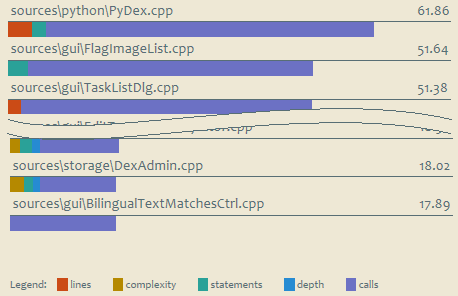
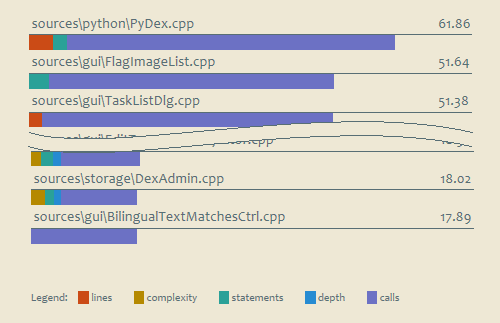
added 'details' section to the toxicity chart

diff --git a/docs/toxicity-chart.html b/docs/toxicity-chart.html
@@ -8,7 +8,7 @@
 <p class="page-path"><a href="../index.html#toxicity-chart">risorse</a> | toxicity</p>
 <h1>Toxicity Chart con SourceMonitor</h1>
 <p>Il <em>Toxicity Chart</em> &egrave; un istogramma a barre impilate che mette in evidenza i file sorgente pi&ugrave; problematici: ogni segmento &egrave; associato ad una metrica, ed &egrave; tanto pi&ugrave; lungo quanto pi&ugrave; fuori tolleranza &egrave; la relativa metrica.</p>
-<img src="img/toxicity-chart/chart-transparent.png" alt="esempio di toxicity chart">
+<img src="img/toxicity-chart/chart.png" alt="esempio di toxicity chart">
 <p>Il Toxicity Chart nasce per i progetti Java<sup><a href="#ref-3">[3]</a></sup>, io ho cercato di adattare l'idea originale al C++.</p>
 <h2>Metriche</h2>
 <p>L'autore sfrutta l'<em>utility</em> <a href="http://checkstyle.sourceforge.net/">Checkstyle</a> per ricavare le misure di progetto; SourceMonitor (<a href="files/toxicity-chart/sourcemonitor_commands.xml">qui</a> un esempio di file di progetto) produce un insieme molto pi&ugrave; ristretto di metriche, riassunte nella seguente tabella di corrispondenza:</p>
@@ -361,6 +361,9 @@ MAX_MAXIMUM_BLOCK_DEPTH = 5
 MAX_CALLS = 10
 </pre>
 <p>Lo script <a href="files/toxicity-chart/toxicity.cmd"><span class="code">toxicity.cmd</span></a> si occupa di lanciare SourceMonitor e conseguentemente la procedura Python in modo da ottenere il report XML finale in un unico passo. Una <a href="files/toxicity-chart/templates/toxicity.xsl">trasformazione XSLT</a> e un <a href="files/toxicity-chart/templates/toxicity.css">foglio di stile CSS</a> rendono il prospetto in forma di pagina HTML. Lo script  si aspetta di trovare questi due file nella cartella <span class="code">./templates</span>.</p>
+<p class="update">Aggiornamento [6/12/2013]</p>
+<p>Aggiunta la sezione <em>Details</em> che riporta, per ogni file, le metriche fuori norma:</p>
+<img src="img/toxicity-chart/details.png" alt="dettagli">
 <h2>Riferimenti</h2>
 <ol>
 <a name="ref-1"></a>
@@ -370,6 +373,6 @@ MAX_CALLS = 10
 <a name="ref-3"></a>
 <li>D&ouml;rnenburg, E. &quot;How toxic is your code?&quot;. <em>erik.doernenburg.com</em>. &lt;<a href="http://erik.doernenburg.com/2008/11/how-toxic-is-your-code/">http://erik.doernenburg.com/2008/11/how-toxic-is-your-code/</a>&gt;. Visitato il 28 Novembre 2013.</li>
 </ol>
-<p class="modification-notice">Pagina modificata il 28/11/2013</p>
+<p class="modification-notice">Pagina modificata il 06/12/2013</p>
 </body>
 </html>

diff --git a/docs/overview-pyramid-cccc.html b/docs/overview-pyramid-cccc.html
@@ -8,7 +8,7 @@
 <h1>Overview Pyramid con CCCC</h1>
 <h2>Introduzione</h2>
 <p>Poich&eacute; l'Overview Pyramid generata a partire dalle metriche prodotte da SourceMonitor manca di alcuni parametri (cfr. <a href="overview-pyramid.html">Overview Pyramid con SourceMonitor</a>), ho provato a verificare cosa si riesce ad ottenere con CCCC.</p>
-<img src="img/overview-pyramid-cccc/pyramid-transparent.png" alt="esempio di overview pyramid ottenuta da CCCC">
+<img src="img/overview-pyramid-cccc/pyramid.png" alt="esempio di overview pyramid ottenuta da CCCC">
 <h2>Implementazione</h2>
 <p>L'implementazione &egrave; simile a quella realizzata per SourceMonitor: uno <a href="files\overview-pyramid-cccc\pyramid.cmd">script</a> da linea di comando si occupa di prima di lanciare CCCC, quindi di avviare uno <a href="files\overview-pyramid-cccc\pyramid.py">script Python</a> che produce esattamente lo stesso file XML prodotto a partire dai file CSV di SourceMonitor, cos&igrave; da riutilizzare la <a href="files\overview-pyramid-cccc\templates\pyramid.xsl">trasformazione XSLT</a> e il <a href="files\overview-pyramid-cccc\templates\pyramid.css">foglio di stile</a> gi&agrave; disponibili.</p>
 <h2>Difformit&agrave;</h2>

diff --git a/docs/files/toxicity-chart/templates/toxicity.css b/docs/files/toxicity-chart/templates/toxicity.css
@@ -1,3 +1,13 @@
+a:link, a:visited {
+ color: #268bd2;
+ text-decoration: underline;
+}
+
+a:active, a:hover {
+ color: #dc322f;
+ text-decoration: underline;
+}
+
 body {
  background: #eee8d5;
  color: #586e75;
@@ -155,4 +165,40 @@ td.threshold-level {
 td.threshold-value {
  padding-right: 1em;
  text-align: right;
+}
+
+table.details {
+}
+
+td.details-file-first {
+ border-bottom: 1px solid #586e75;
+ font-size: 1em;
+ padding-bottom: .5em;
+}
+
+td.details-file {
+ border-bottom: 1px solid #586e75;
+ font-size: 1em;
+ padding-top: 3em;
+ padding-bottom: .5em;
+}
+
+td.details-metric {
+ font-weight: bold;
+ padding-top: .5em;
+ text-align: left;
+}
+
+td.details-label {
+ font-style: italic;
+}
+
+td.details-value {
+ font-style: italic;
+ text-align: right;
+}
+
+td.top {
+ font-style: italic;
+ padding-top: 1em;
 }

diff --git a/docs/overview-pyramid.html b/docs/overview-pyramid.html
@@ -8,7 +8,7 @@
 <h1>Overview Pyramid con SourceMonitor</h1>
 <h2>Introduzione</h2>
 <p>L'<em>Overview Pyramid</em> &egrave; una rappresentazione sintetica dello stato di un progetto software.</p>
-<img src="img/overview-pyramid/pyramid-transparent.png" alt="esempio di overview pyramid">
+<img src="img/overview-pyramid/pyramid.png" alt="esempio di overview pyramid">
 <p>La piramide &egrave; suddivisa in tre parti: il vertice, con le metriche relative alle gerarchie ereditarie, la parte di sinistra, con quelle associate alla dimensione e alla complessit&agrave; del codice, e la parte di destra, con quelle sull'accoppiamento del sistema.</p>
 <h3>Il vertice: <em>system inheritance</em></h3>
 <p>Il vertice della piramide mostra due indici relativi all'ereditariet&agrave;:</p>

diff --git a/docs/files/toxicity-chart/toxicity.py b/docs/files/toxicity-chart/toxicity.py
@@ -127,39 +127,71 @@ MAX_MAXIMUM_BLOCK_DEPTH = 5
 MAX_CALLS = 10
 
 
-class Toxicity(object):
+class Stats(object):
 
-    def __init__(self):
-        self._details = collections.defaultdict(float)
-
-    def lines(self, lines):
-        self.register_(lines, MAX_LINES, 'lines')
+    def __init__(self, path, lines):
+        self.path = path
+        self.lines = lines
+        self.complexity = { }
+        self.statements = { }
+        self.maximum_block_depth = { }
+        self.calls = { }
 
     def method(self, name, complexity, statements, maximum_block_depth, calls):
-        self.register_(complexity, MAX_COMPLEXITY, 'complexity')
-        self.register_(statements, MAX_STATEMENTS, 'statements')
-        self.register_(maximum_block_depth, MAX_MAXIMUM_BLOCK_DEPTH,
-            'maximum-block-depth')
-        self.register_(calls, MAX_CALLS, 'calls')
+        self.complexity[name] = complexity
+        self.statements[name] = statements
+        self.maximum_block_depth[name] = maximum_block_depth
+        self.calls[name] = calls
 
-    def sum(self):
-        return sum(self._details.values())
 
-    @property
-    def details(self):
-        return [(label, self._details[label]) for label in [
-            'lines',
-            'complexity',
-            'statements',
-            'maximum-block-depth',
-            'calls']]
+class Outlier(object):
 
-    def register_(self, data, threshold, label):
-        if not threshold:
-            return
-        data = float(data)
-        if data > threshold:
-            self._details[label] += data / threshold
+    def __init__(self, metric, value, threshold):
+        self.metric = metric
+        self.value = value
+        self.threshold = float(threshold)
+        if value > threshold:
+            self.score = value / self.threshold
+        else:
+            self.score = 0
+        self.has_details = False
+
+
+class NamedOutliers(dict):
+
+    def __init__(self, metric, items, threshold):
+        self.metric = metric
+        self.threshold = float(threshold)
+        self.details = {}
+        for name, value in items.items():
+            if value > threshold:
+                self.details[name] = value
+        self.score = sum(self.details.values()) / self.threshold
+        self.has_details = True
+
+
+class Toxicity(object):
+
+    def __init__(self, stats):
+        self.path = stats.path
+        self.outliers = []
+        if MAX_LINES:
+            self.outliers.append(
+                Outlier('lines', stats.lines, MAX_LINES))
+        if MAX_COMPLEXITY:
+            self.outliers.append(
+                NamedOutliers('complexity', stats.complexity, MAX_COMPLEXITY))
+        if MAX_STATEMENTS:
+            self.outliers.append(
+                NamedOutliers('statements', stats.statements, MAX_STATEMENTS))
+        if MAX_MAXIMUM_BLOCK_DEPTH:
+            self.outliers.append(
+                NamedOutliers('maximum-block-depth', stats.maximum_block_depth,
+                    MAX_MAXIMUM_BLOCK_DEPTH))
+        if MAX_CALLS:
+            self.outliers.append(
+                NamedOutliers('calls', stats.calls, MAX_CALLS))
+        self.score = sum([x.score for x in self.outliers])
 
 
 class Report(object):
@@ -181,31 +213,45 @@ class Report(object):
             ' '.join(['%s=%s' % (name, xml.sax.saxutils.quoteattr(value))
                 for name, value in attrs.items() if value])
 
-    def publish_thresholds(self, thresholds):
+    def add_thresholds(self, thresholds):
         print ' <thresholds>'
         for threshold in thresholds:
             metric, level, value = threshold
             if not value:
                 continue
             print '  <threshold metric=%s level=%s value=%s/>' % (
-                xml.sax.saxutils.quoteattr(str(metric)),
-                xml.sax.saxutils.quoteattr(str(level)),
-                xml.sax.saxutils.quoteattr(str(value)))
+               self._quote(metric), self._quote(level), self._quote(value))
         print ' </thresholds>'
 
     def start_chart(self):
         print ' <files>'
 
-    def add_file(self, path, toxicity, details):
+    def add_toxicity(self, toxicity):
         print ' <file path=%s toxicity=%s>' % (
-            xml.sax.saxutils.quoteattr(str(path)),
-            xml.sax.saxutils.quoteattr(str(toxicity)))
-        for name, value in details:
-            self._add_detail(name, value)
+           self._quote(toxicity.path),
+            self._quote(toxicity.score))
+        for outliers in toxicity.outliers:
+            self._add_outliers(outliers)
         print ' </file>'
 
-    def _add_detail(self, name, value):
-        print '  <%s>%s</%s>' % (name, value, name)
+    def _add_outliers(self, outliers):
+        tag = outliers.metric
+        toxicity = self._quote(outliers.score)
+        if outliers.has_details:
+            print '  <%s toxicity=%s>' % (tag, toxicity)
+            self._add_details(outliers.details)
+            print '  </%s>' % tag
+        else:
+            print '  <%s toxicity=%s value=%s/>' % (
+                tag, toxicity, self._quote(outliers.value))
+
+    def _add_details(self, details):
+        for name, value in details.items():
+            print '   <method name=%s value=%s/>' % (
+                self._quote(name), self._quote(value))
+
+    def _quote(self, value):
+        return xml.sax.saxutils.quoteattr(str(value))
 
     def end_chart(self):
         print ' </files>'
@@ -232,34 +278,39 @@ if __name__ == '__main__':
     if len(args) != 2:
         parser.error("incorrect number of arguments")
 
-    toxicities = collections.defaultdict(Toxicity)
+    stats = { }
 
-    # parse the project-details csv report
+    # scan the project-details csv report
     with open(args[0], 'rb') as project_file:
         recordset = csv.reader(project_file)
         for n, record in enumerate(recordset):
+            # skip headers
             if n < 1:
                 continue
             file_name = record[3]
-            #~ statements = record[5]
-            #~ classes_defined = int(record[8])
             if file_name == 'SUMMARY':
                 continue
-            toxicities[file_name].lines(record[4])
+            #~ statements = int(record[5])
+            #~ classes_defined = int(record[8])
+            lines = int(record[4])
+            stats[file_name] = Stats(file_name, lines)
 
-    # parse the project-details csv report
+    # scan the method-metrics csv report
     with open(args[1], 'rb') as project_file:
         recordset = csv.reader(project_file)
         for n, record in enumerate(recordset):
+            # skip headers
             if n < 1:
                 continue
-            name = record[4]
+            method_ = record[4]
             complexity = int(record[5].strip('*'))
             statements = int(record[6])
             maximum_block_depth = int(record[7])
             calls = int(record[8])
-            toxicities[record[3]].method(
-                name, complexity, statements, maximum_block_depth, calls)
+            stats[record[3]].method(
+                method_, complexity, statements, maximum_block_depth, calls)
+
+    toxicities = [Toxicity(s) for s in stats.values()]
 
     report = Report()
 
@@ -268,7 +319,7 @@ if __name__ == '__main__':
 
     report.start(options.name, options.version, 'SourceMonitor')
 
-    report.publish_thresholds([
+    report.add_thresholds([
         ('lines', 'file', MAX_LINES),
         ('complexity', 'method', MAX_COMPLEXITY),
         ('statements', 'method', MAX_STATEMENTS),
@@ -282,15 +333,14 @@ if __name__ == '__main__':
     else:
         toxicities_to_report = len(toxicities)
 
-    toxicities = sorted(toxicities.items(), key=lambda t: t[1].sum(), reverse=True)
+    toxicities = sorted(toxicities, key=lambda t: t.score, reverse=True)
 
     for i, toxicity in enumerate(toxicities):
         if i == toxicities_to_report:
             break
-        path, toxicity = toxicity
-        if toxicity.sum() == 0:
+        if toxicity.score == 0:
             break
-        report.add_file(path, toxicity.sum(), toxicity.details)
+        report.add_toxicity(toxicity)
 
     report.end_chart()
     report.end()
